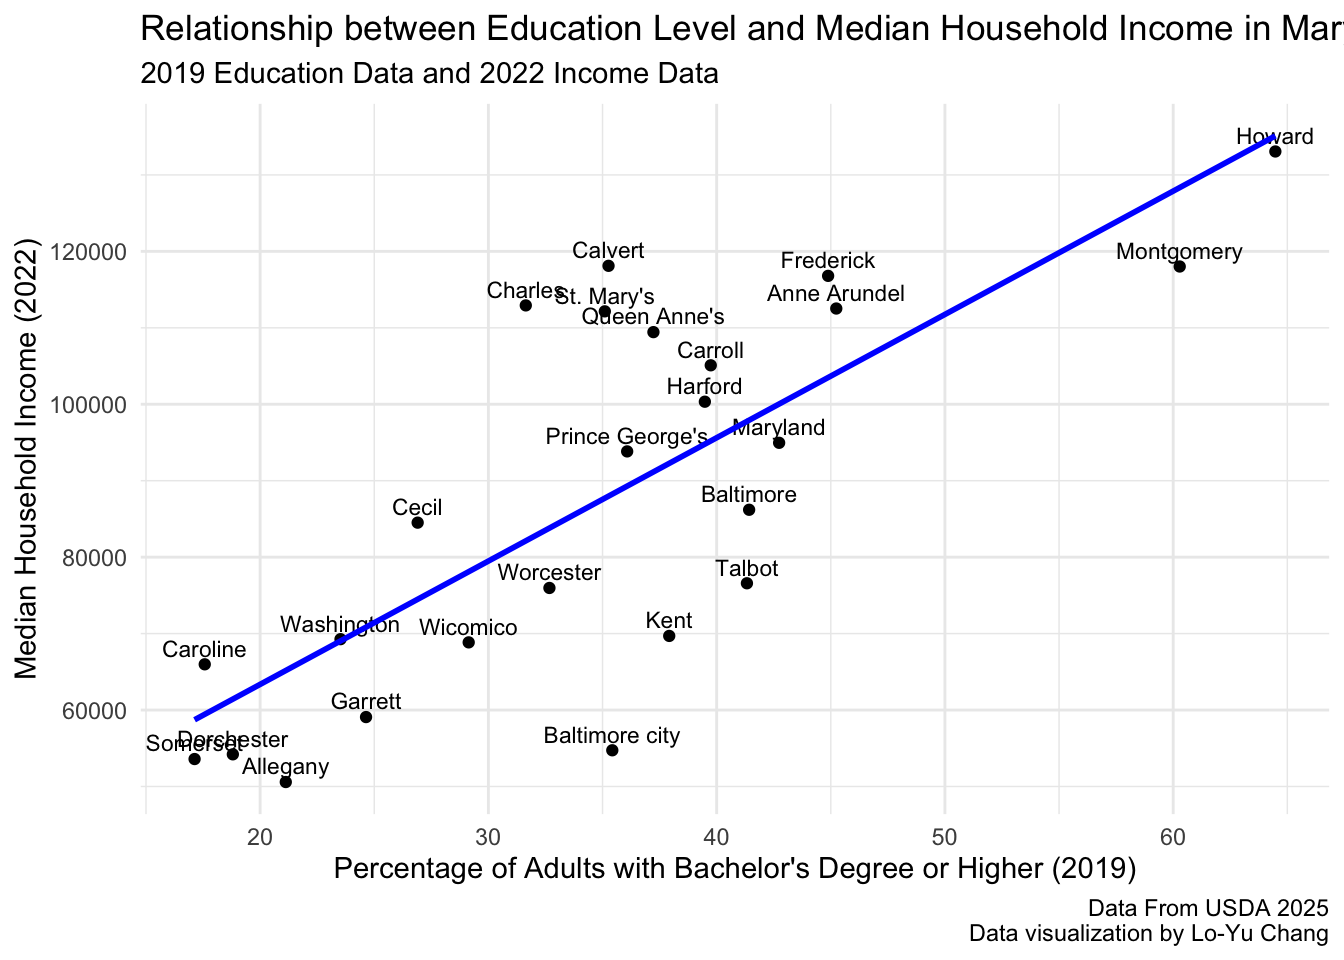
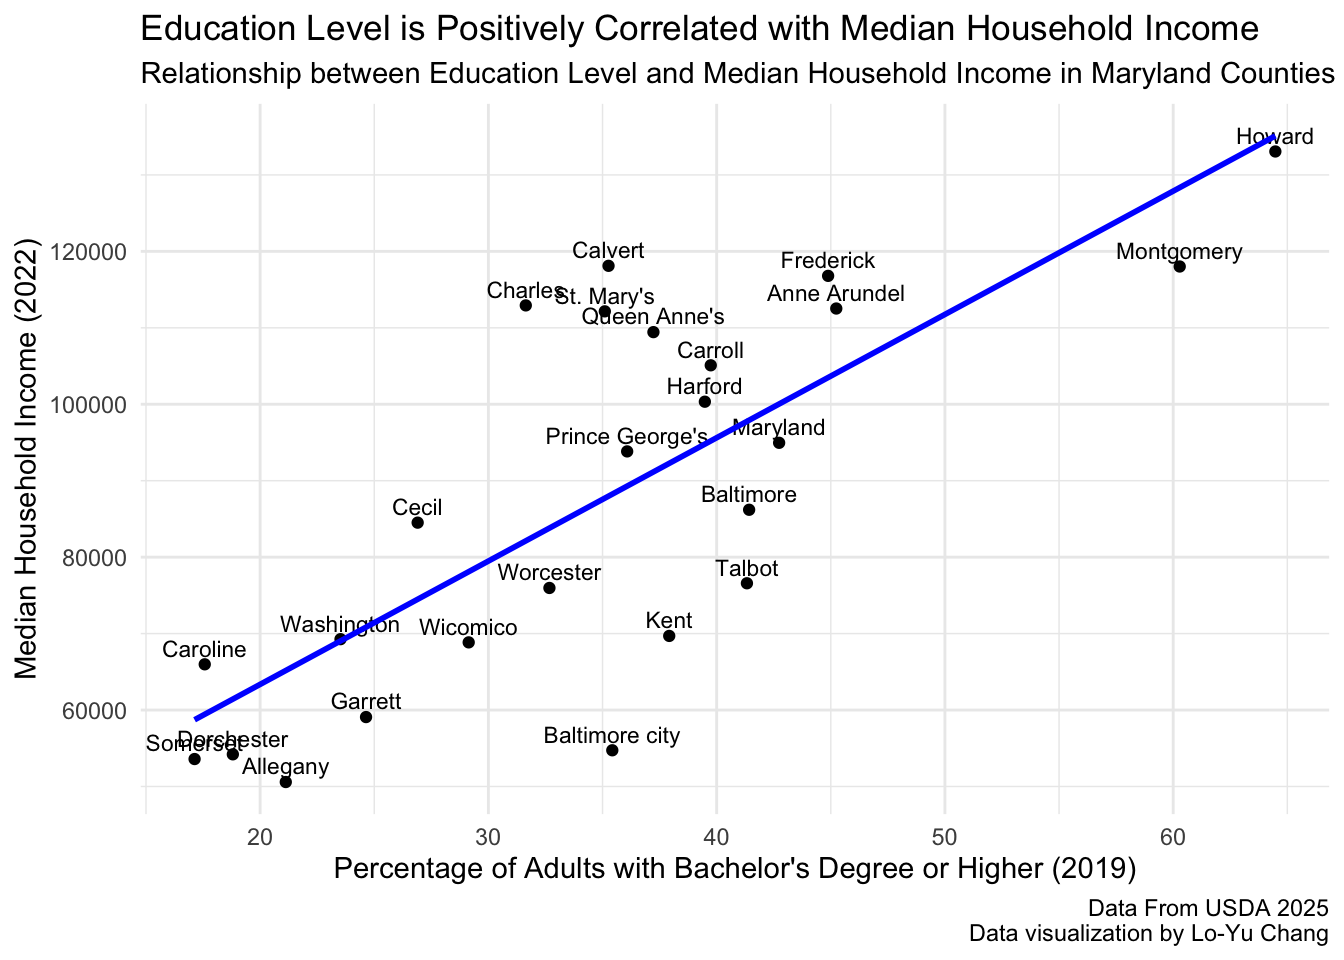
Amend axes and legends in plots for better readability

Changed region(s): [[0.0938, 0.0, 1.0, 0.0938]]

diff --git a/docs/analysis.html b/docs/analysis.html
@@ -229,7 +229,13 @@ div.csl-indent {
 <section id="introduction" class="level2">
 <h2 class="anchored" data-anchor-id="introduction">Introduction</h2>
 <p>Education level is often considered a key factor influencing income levels <span class="citation" data-cites="tamborini2015education">(<a href="#ref-tamborini2015education" role="doc-biblioref">Tamborini, Kim, and Sakamoto 2015</a>)</span>. Higher educational attainment is generally associated with better job opportunities, higher salaries, and improved economic stability. This example analysis aims to explore the relationship between education levels and income in Maryland counties using publicly available datasets, and use it to demonstrate data manipulation and visualization techniques in R. Here, I will focus on Maryland as an example state, but similar analyses can be conducted for other states or regions.</p>
-<p><img src="images/Map.jpg" class="img-fluid quarto-figure quarto-figure-center" width="200" alt="Maryland County Map"> <span class="citation" data-cites="MdCountiesMap2025">(<a href="#ref-MdCountiesMap2025" role="doc-biblioref">JosN/WikimediaCommons 2025</a>)</span></p>
+<div class="quarto-figure quarto-figure-center">
+<figure class="figure">
+<p><img src="images/Map.jpg" class="img-fluid figure-img" width="400"></p>
+<figcaption>Maryland County Map</figcaption>
+</figure>
+</div>
+<p>Image from <span class="citation" data-cites="MdCountiesMap2025">(<a href="#ref-MdCountiesMap2025" role="doc-biblioref">JosN/WikimediaCommons 2025</a>)</span></p>
 </section>
 <section id="aims" class="level2">
 <h2 class="anchored" data-anchor-id="aims">Aims</h2>
@@ -2033,20 +2039,44 @@ div.csl-indent {
 <div class="cell">
 <div class="code-copy-outer-scaffold"><div class="sourceCode cell-code" id="cb17"><pre class="sourceCode r code-with-copy"><code class="sourceCode r"><span id="cb17-1"><a href="#cb17-1" aria-hidden="true" tabindex="-1"></a><span class="co"># relevel the Attribute factor levels to ensure proper order in the stacked bar chart</span></span>
 <span id="cb17-2"><a href="#cb17-2" aria-hidden="true" tabindex="-1"></a>MD.edu.clean<span class="sc">$</span>Attribute <span class="ot">&lt;-</span> <span class="fu">factor</span>(MD.edu.clean<span class="sc">$</span>Attribute, </span>
-<span id="cb17-3"><a href="#cb17-3" aria-hidden="true" tabindex="-1"></a>                                 <span class="at">levels =</span> <span class="fu">c</span>(<span class="st">"Less than high school"</span>, </span>
-<span id="cb17-4"><a href="#cb17-4" aria-hidden="true" tabindex="-1"></a>                                            <span class="st">"High school"</span>, </span>
-<span id="cb17-5"><a href="#cb17-5" aria-hidden="true" tabindex="-1"></a>                                            <span class="st">"Some college or associate degree"</span>, </span>
-<span id="cb17-6"><a href="#cb17-6" aria-hidden="true" tabindex="-1"></a>                                            <span class="st">"Bachelor or Higher"</span>))</span>
-<span id="cb17-7"><a href="#cb17-7" aria-hidden="true" tabindex="-1"></a><span class="fu">ggplot</span>(MD.edu.clean, <span class="fu">aes</span>(<span class="at">x =</span> Year, <span class="at">y =</span> Value, <span class="at">fill =</span> Attribute)) <span class="sc">+</span></span>
-<span id="cb17-8"><a href="#cb17-8" aria-hidden="true" tabindex="-1"></a>  <span class="fu">geom_bar</span>(<span class="at">stat =</span> <span class="st">"identity"</span>) <span class="sc">+</span></span>
-<span id="cb17-9"><a href="#cb17-9" aria-hidden="true" tabindex="-1"></a>  <span class="fu">facet_wrap</span>(<span class="sc">~</span> <span class="st">`</span><span class="at">Area name</span><span class="st">`</span>) <span class="sc">+</span></span>
-<span id="cb17-10"><a href="#cb17-10" aria-hidden="true" tabindex="-1"></a>  <span class="fu">labs</span>(<span class="at">title =</span> <span class="st">"Education Level Distribution in Maryland Counties (1990-2023)"</span>,</span>
-<span id="cb17-11"><a href="#cb17-11" aria-hidden="true" tabindex="-1"></a><span class="at">subtitle =</span> <span class="st">'Faceted by County'</span>,</span>
-<span id="cb17-12"><a href="#cb17-12" aria-hidden="true" tabindex="-1"></a>       <span class="at">x =</span> <span class="st">"Year"</span>,</span>
-<span id="cb17-13"><a href="#cb17-13" aria-hidden="true" tabindex="-1"></a>       <span class="at">y =</span> <span class="st">"Percentage of Adults"</span>,</span>
-<span id="cb17-14"><a href="#cb17-14" aria-hidden="true" tabindex="-1"></a>       <span class="at">fill =</span> <span class="st">"Education Level"</span>,</span>
-<span id="cb17-15"><a href="#cb17-15" aria-hidden="true" tabindex="-1"></a>       <span class="at">caption =</span> <span class="st">"Data From USDA 2025</span><span class="sc">\n</span><span class="st">Data visualization by Lo-Yu Chang"</span>) <span class="sc">+</span></span>
-<span id="cb17-16"><a href="#cb17-16" aria-hidden="true" tabindex="-1"></a>  <span class="fu">theme_minimal</span>()</span></code></pre></div><button title="Copy to Clipboard" class="code-copy-button"><i class="bi"></i></button></div>
+<span id="cb17-3"><a href="#cb17-3" aria-hidden="true" tabindex="-1"></a>                                 <span class="at">levels =</span> <span class="fu">c</span>(<span class="st">"Bachelor or Higher"</span>,</span>
+<span id="cb17-4"><a href="#cb17-4" aria-hidden="true" tabindex="-1"></a>                                 <span class="st">"Some college or associate degree"</span>,</span>
+<span id="cb17-5"><a href="#cb17-5" aria-hidden="true" tabindex="-1"></a>                                 <span class="st">"High school"</span>,</span>
+<span id="cb17-6"><a href="#cb17-6" aria-hidden="true" tabindex="-1"></a>                                 <span class="st">"Less than high school"</span>))</span>
+<span id="cb17-7"><a href="#cb17-7" aria-hidden="true" tabindex="-1"></a><span class="co"># shorten the year label to be 70', 80', etc.</span></span>
+<span id="cb17-8"><a href="#cb17-8" aria-hidden="true" tabindex="-1"></a></span>
+<span id="cb17-9"><a href="#cb17-9" aria-hidden="true" tabindex="-1"></a>MD.edu.clean <span class="ot">&lt;-</span> MD.edu.clean <span class="sc">%&gt;%</span></span>
+<span id="cb17-10"><a href="#cb17-10" aria-hidden="true" tabindex="-1"></a>  <span class="fu">mutate</span>(<span class="at">Year =</span> <span class="fu">case_when</span>(</span>
+<span id="cb17-11"><a href="#cb17-11" aria-hidden="true" tabindex="-1"></a>    Year <span class="sc">==</span> <span class="st">"1970"</span> <span class="sc">~</span> <span class="st">"70'"</span>,</span>
+<span id="cb17-12"><a href="#cb17-12" aria-hidden="true" tabindex="-1"></a>    Year <span class="sc">==</span> <span class="st">"1980"</span> <span class="sc">~</span> <span class="st">"80'"</span>,</span>
+<span id="cb17-13"><a href="#cb17-13" aria-hidden="true" tabindex="-1"></a>    Year <span class="sc">==</span> <span class="st">"1990"</span> <span class="sc">~</span> <span class="st">"90'"</span>,</span>
+<span id="cb17-14"><a href="#cb17-14" aria-hidden="true" tabindex="-1"></a>    Year <span class="sc">==</span> <span class="st">"2000"</span> <span class="sc">~</span> <span class="st">"00'"</span>,</span>
+<span id="cb17-15"><a href="#cb17-15" aria-hidden="true" tabindex="-1"></a>    Year <span class="sc">==</span> <span class="st">"2008"</span> <span class="sc">~</span> <span class="st">"08'"</span>,</span>
+<span id="cb17-16"><a href="#cb17-16" aria-hidden="true" tabindex="-1"></a>    Year <span class="sc">==</span> <span class="st">"2019"</span> <span class="sc">~</span> <span class="st">"19'"</span>,</span>
+<span id="cb17-17"><a href="#cb17-17" aria-hidden="true" tabindex="-1"></a>    <span class="cn">TRUE</span> <span class="sc">~</span> Year</span>
+<span id="cb17-18"><a href="#cb17-18" aria-hidden="true" tabindex="-1"></a>  ))</span>
+<span id="cb17-19"><a href="#cb17-19" aria-hidden="true" tabindex="-1"></a><span class="co"># also to make sure the year is in the correct order</span></span>
+<span id="cb17-20"><a href="#cb17-20" aria-hidden="true" tabindex="-1"></a>MD.edu.clean<span class="sc">$</span>Year <span class="ot">&lt;-</span> <span class="fu">factor</span>(MD.edu.clean<span class="sc">$</span>Year, </span>
+<span id="cb17-21"><a href="#cb17-21" aria-hidden="true" tabindex="-1"></a>                             <span class="at">levels =</span> <span class="fu">c</span>(<span class="st">"70'"</span>, <span class="st">"80'"</span>, <span class="st">"90'"</span>, <span class="st">"00'"</span>, <span class="st">"08'"</span>, <span class="st">"19'"</span>))</span>
+<span id="cb17-22"><a href="#cb17-22" aria-hidden="true" tabindex="-1"></a></span>
+<span id="cb17-23"><a href="#cb17-23" aria-hidden="true" tabindex="-1"></a><span class="co"># move the legend to the bottom for better readability</span></span>
+<span id="cb17-24"><a href="#cb17-24" aria-hidden="true" tabindex="-1"></a><span class="fu">ggplot</span>(MD.edu.clean, <span class="fu">aes</span>(<span class="at">x =</span> Year, <span class="at">y =</span> Value, <span class="at">fill =</span> Attribute)) <span class="sc">+</span></span>
+<span id="cb17-25"><a href="#cb17-25" aria-hidden="true" tabindex="-1"></a>  <span class="fu">geom_bar</span>(<span class="at">stat =</span> <span class="st">"identity"</span>) <span class="sc">+</span></span>
+<span id="cb17-26"><a href="#cb17-26" aria-hidden="true" tabindex="-1"></a>  <span class="fu">facet_wrap</span>(<span class="sc">~</span> <span class="st">`</span><span class="at">Area name</span><span class="st">`</span>) <span class="sc">+</span></span>
+<span id="cb17-27"><a href="#cb17-27" aria-hidden="true" tabindex="-1"></a>  <span class="fu">labs</span>(<span class="at">title =</span> <span class="st">"Marylanders are getting more 'educated' over the years"</span>,</span>
+<span id="cb17-28"><a href="#cb17-28" aria-hidden="true" tabindex="-1"></a><span class="at">subtitle =</span> <span class="st">'Education Level Distribution in Maryland Counties (1970-2019)'</span>,</span>
+<span id="cb17-29"><a href="#cb17-29" aria-hidden="true" tabindex="-1"></a>       <span class="at">x =</span> <span class="st">"Year"</span>,</span>
+<span id="cb17-30"><a href="#cb17-30" aria-hidden="true" tabindex="-1"></a>       <span class="at">y =</span> <span class="st">"Percentage of Adults"</span>,</span>
+<span id="cb17-31"><a href="#cb17-31" aria-hidden="true" tabindex="-1"></a>       <span class="at">fill =</span> <span class="st">"Education Level"</span>,</span>
+<span id="cb17-32"><a href="#cb17-32" aria-hidden="true" tabindex="-1"></a>       <span class="at">caption =</span> <span class="st">"Data From USDA 2025</span><span class="sc">\n</span><span class="st">Data visualization by Lo-Yu Chang"</span>) <span class="sc">+</span></span>
+<span id="cb17-33"><a href="#cb17-33" aria-hidden="true" tabindex="-1"></a>  <span class="fu">theme_minimal</span>() <span class="sc">+</span></span>
+<span id="cb17-34"><a href="#cb17-34" aria-hidden="true" tabindex="-1"></a>  <span class="fu">theme</span>(<span class="at">legend.position =</span> <span class="st">"bottom"</span>) <span class="sc">+</span></span>
+<span id="cb17-35"><a href="#cb17-35" aria-hidden="true" tabindex="-1"></a>  <span class="fu">guides</span>(<span class="at">fill =</span> <span class="fu">guide_legend</span>(<span class="at">title.position =</span> <span class="st">"top"</span>, <span class="at">title.hjust =</span> <span class="fl">0.5</span>)) <span class="sc">+</span></span>
+<span id="cb17-36"><a href="#cb17-36" aria-hidden="true" tabindex="-1"></a>  <span class="fu">theme</span>(</span>
+<span id="cb17-37"><a href="#cb17-37" aria-hidden="true" tabindex="-1"></a>    <span class="at">legend.title =</span> <span class="fu">element_text</span>(<span class="at">size =</span> <span class="dv">10</span>),</span>
+<span id="cb17-38"><a href="#cb17-38" aria-hidden="true" tabindex="-1"></a>    <span class="at">legend.text =</span> <span class="fu">element_text</span>(<span class="at">size =</span> <span class="dv">8</span>),</span>
+<span id="cb17-39"><a href="#cb17-39" aria-hidden="true" tabindex="-1"></a>    <span class="at">legend.key.size =</span> <span class="fu">unit</span>(<span class="fl">0.6</span>, <span class="st">"lines"</span>)</span>
+<span id="cb17-40"><a href="#cb17-40" aria-hidden="true" tabindex="-1"></a>  )</span></code></pre></div><button title="Copy to Clipboard" class="code-copy-button"><i class="bi"></i></button></div>
 <div class="cell-output-display">
 <div>
 <figure class="figure">
@@ -2062,9 +2092,9 @@ div.csl-indent {
 <span id="cb18-2"><a href="#cb18-2" aria-hidden="true" tabindex="-1"></a>  <span class="fu">geom_line</span>() <span class="sc">+</span></span>
 <span id="cb18-3"><a href="#cb18-3" aria-hidden="true" tabindex="-1"></a>  <span class="fu">geom_point</span>() <span class="sc">+</span></span>
 <span id="cb18-4"><a href="#cb18-4" aria-hidden="true" tabindex="-1"></a>  <span class="fu">facet_wrap</span>(<span class="sc">~</span> <span class="st">`</span><span class="at">Area_name</span><span class="st">`</span>) <span class="sc">+</span> <span class="co"># I want to change year interval to be every 5 years</span></span>
-<span id="cb18-5"><a href="#cb18-5" aria-hidden="true" tabindex="-1"></a>  <span class="fu">scale_x_discrete</span>(<span class="at">breaks =</span> <span class="fu">seq</span>(<span class="dv">1990</span>, <span class="dv">2022</span>, <span class="at">by =</span> <span class="dv">5</span>)) <span class="sc">+</span></span>
-<span id="cb18-6"><a href="#cb18-6" aria-hidden="true" tabindex="-1"></a>  <span class="fu">labs</span>(<span class="at">title =</span> <span class="st">"Unemployment Rate in Maryland Counties (1990-2022)"</span>,</span>
-<span id="cb18-7"><a href="#cb18-7" aria-hidden="true" tabindex="-1"></a><span class="at">subtitle =</span> <span class="st">"Faceted by County"</span>,</span>
+<span id="cb18-5"><a href="#cb18-5" aria-hidden="true" tabindex="-1"></a>  <span class="fu">scale_x_discrete</span>(<span class="at">breaks =</span> <span class="fu">seq</span>(<span class="dv">1990</span>, <span class="dv">2022</span>, <span class="at">by =</span> <span class="dv">10</span>)) <span class="sc">+</span></span>
+<span id="cb18-6"><a href="#cb18-6" aria-hidden="true" tabindex="-1"></a>  <span class="fu">labs</span>(<span class="at">title =</span> <span class="st">"2008 and 2020 Depressions Caused Significant Spikes in Unemployment Rates"</span>,</span>
+<span id="cb18-7"><a href="#cb18-7" aria-hidden="true" tabindex="-1"></a><span class="at">subtitle =</span> <span class="st">"Unemployment Rate in Maryland Counties (1990-2022)"</span>,</span>
 <span id="cb18-8"><a href="#cb18-8" aria-hidden="true" tabindex="-1"></a>       <span class="at">x =</span> <span class="st">"Year"</span>,</span>
 <span id="cb18-9"><a href="#cb18-9" aria-hidden="true" tabindex="-1"></a>       <span class="at">y =</span> <span class="st">"Unemployment Rate (%)"</span>,</span>
 <span id="cb18-10"><a href="#cb18-10" aria-hidden="true" tabindex="-1"></a>       <span class="at">caption =</span> <span class="st">"Data From USDA 2025</span><span class="sc">\n</span><span class="st">Data visualization by Lo-Yu Chang"</span>) <span class="sc">+</span></span>
@@ -2084,8 +2114,8 @@ div.csl-indent {
 <span id="cb19-2"><a href="#cb19-2" aria-hidden="true" tabindex="-1"></a>  <span class="fu">geom_point</span>() <span class="sc">+</span></span>
 <span id="cb19-3"><a href="#cb19-3" aria-hidden="true" tabindex="-1"></a>  <span class="fu">geom_text</span>(<span class="fu">aes</span>(<span class="at">label =</span> <span class="st">`</span><span class="at">Area name</span><span class="st">`</span>), <span class="at">vjust =</span> <span class="sc">-</span><span class="fl">0.5</span>, <span class="at">hjust =</span> <span class="fl">0.5</span>, <span class="at">size =</span> <span class="dv">3</span>) <span class="sc">+</span></span>
 <span id="cb19-4"><a href="#cb19-4" aria-hidden="true" tabindex="-1"></a>  <span class="fu">geom_smooth</span>(<span class="at">method =</span> <span class="st">"lm"</span>, <span class="at">se =</span> <span class="cn">FALSE</span>, <span class="at">color =</span> <span class="st">"blue"</span>) <span class="sc">+</span></span>
-<span id="cb19-5"><a href="#cb19-5" aria-hidden="true" tabindex="-1"></a>  <span class="fu">labs</span>(<span class="at">title =</span> <span class="st">"Relationship between Education Level and Median Household Income in Maryland Counties"</span>,</span>
-<span id="cb19-6"><a href="#cb19-6" aria-hidden="true" tabindex="-1"></a>  <span class="at">subtitle =</span> <span class="st">"2019 Education Data and 2022 Income Data"</span>,</span>
+<span id="cb19-5"><a href="#cb19-5" aria-hidden="true" tabindex="-1"></a>  <span class="fu">labs</span>(<span class="at">title =</span> <span class="st">"Education Level is Positively Correlated with Median Household Income"</span>,</span>
+<span id="cb19-6"><a href="#cb19-6" aria-hidden="true" tabindex="-1"></a>  <span class="at">subtitle =</span> <span class="st">"Relationship between Education Level and Median Household Income in Maryland Counties"</span>,</span>
 <span id="cb19-7"><a href="#cb19-7" aria-hidden="true" tabindex="-1"></a>       <span class="at">x =</span> <span class="st">"Percentage of Adults with Bachelor's Degree or Higher (2019)"</span>,</span>
 <span id="cb19-8"><a href="#cb19-8" aria-hidden="true" tabindex="-1"></a>       <span class="at">y =</span> <span class="st">"Median Household Income (2022)"</span>,</span>
 <span id="cb19-9"><a href="#cb19-9" aria-hidden="true" tabindex="-1"></a>       <span class="at">caption =</span> <span class="st">"Data From USDA 2025</span><span class="sc">\n</span><span class="st">Data visualization by Lo-Yu Chang"</span>) <span class="sc">+</span> </span>
